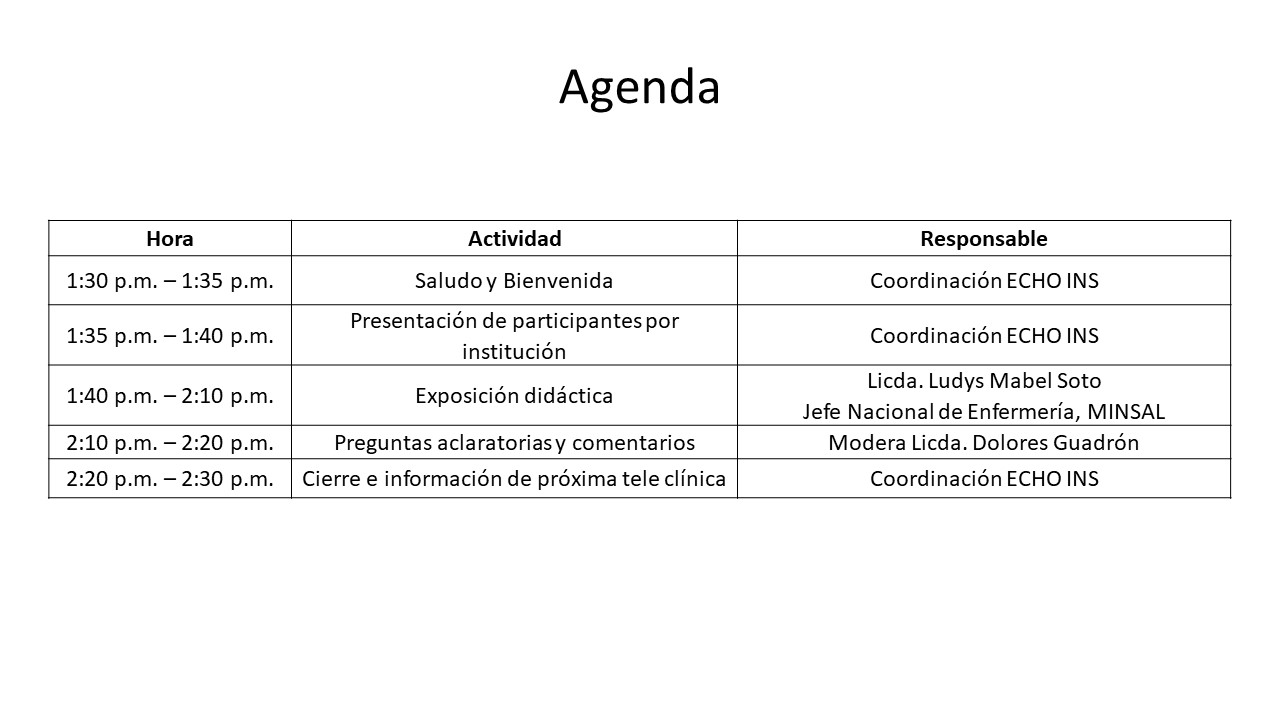
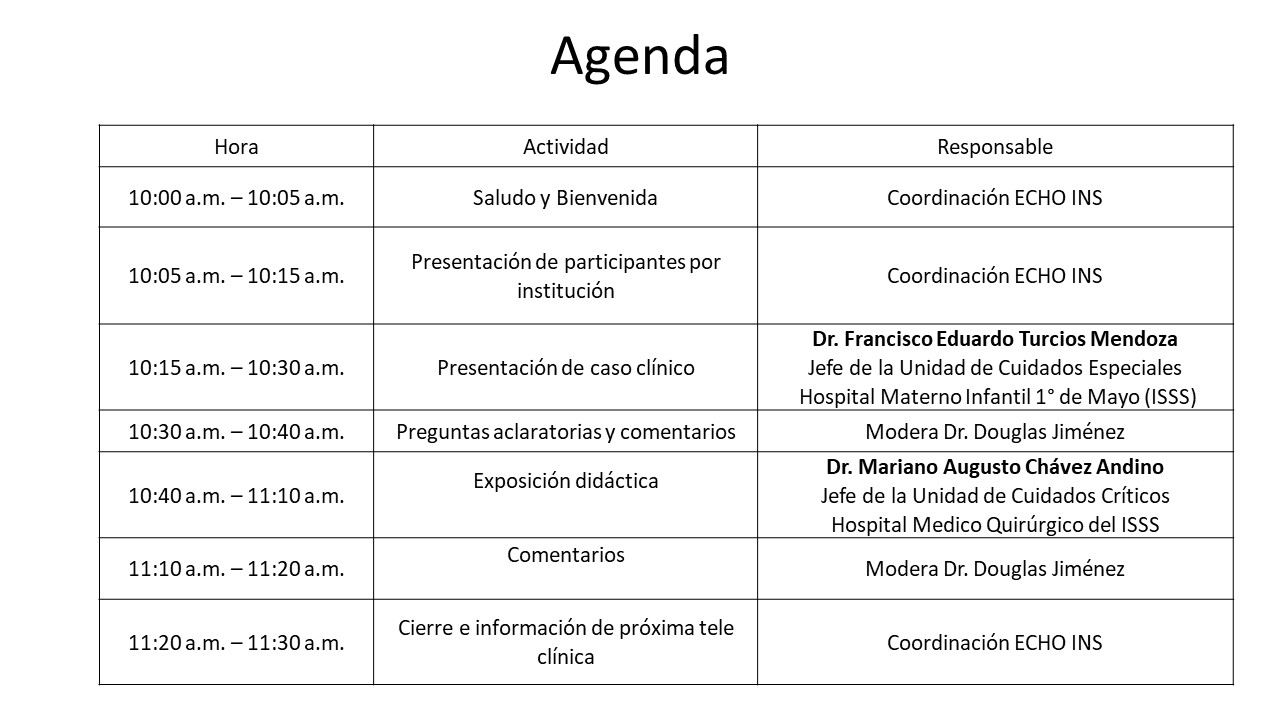
invitación del 19

diff --git a/index.html b/index.html
@@ -141,12 +141,16 @@
               border-color: lightseagreen;">
               <div style="border: 5px solid; border-color: greenyellow; padding: 0.25rem;">
                 <br><br>
-                <h1>Martes 17 de agosto 2021
+                <h1>Jueves 19 de agosto 2021
                 </h1>
-                <h2>Hora: 1:30 p.m.</h2>
-                <h2><strong>Presenta: </strong></h2>                               
-                <h2>Licda. Ludys Mabel Soto </h2>
+                <h2>Hora: 10:00 a.m.</h2>
+
+                <h2>Presenta</h2>
+                <h2>Caso Clínico </h2>                               
+                <h2><strong>Dr. Francisco Eduardo Turcios Mendoza</strong>                </h2>
                 <br>
+                <h2>Exposición Didáctica:                </h2>                               
+                <h2><strong>Dr. Mariano Augusto Chávez Andino</strong>                </h2>
               </div>
 
             </td>
@@ -230,7 +234,7 @@
             <td class="bg-white" align="center" style="background-color:#ffffff;     border: 5px solid;
             border-color: lightseagreen;">
               <div style="border: 5px solid; border-color: greenyellow; padding: 0.25rem;">
-                <a href="https://echo.zoom.us/meeting/register/tJAtc-GvqTwuHtPB8mfC3RxmfqUeXE-g2YE4" target="_blank"
+                <a href="https://echo.zoom.us/meeting/register/tJckduGqpjMpHtatDgW68u0EBXBSTx71hWi1" target="_blank"
                   rel="noopener noreferrer">
                   <h1>REGÍSTRESE AQUÍ</h1>
                 </a>
